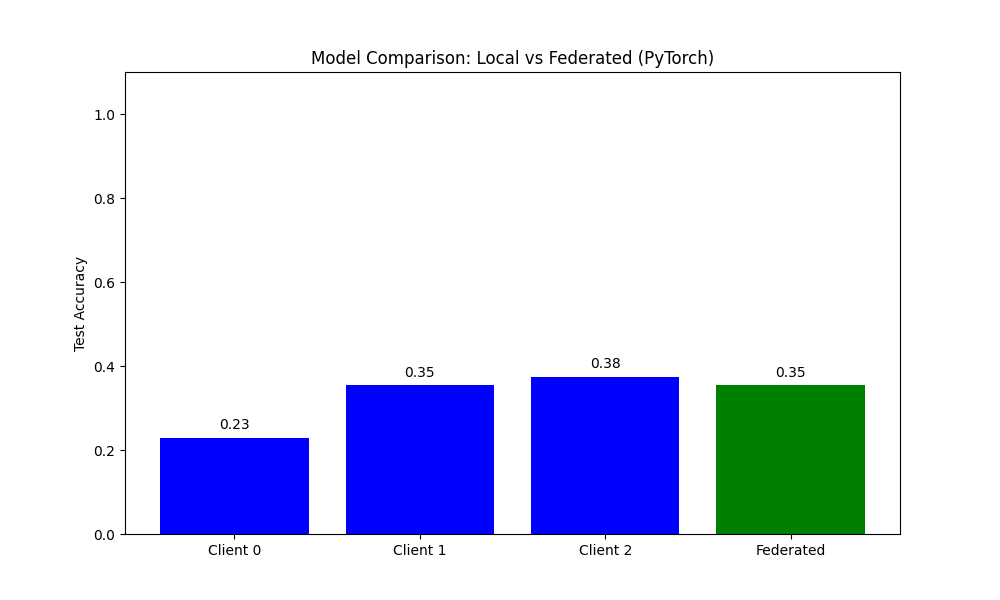
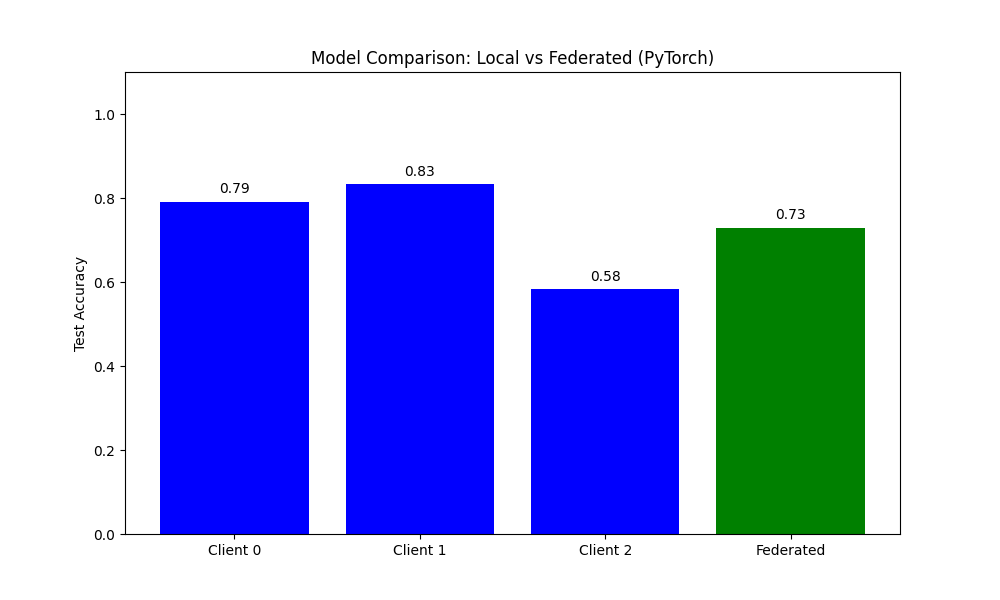
Update docs and add FL experiment results (20 epochs)

diff --git a/federated_learning.md b/federated_learning.md
@@ -40,3 +40,15 @@ python run_fl_experiment_pytorch.py --epochs 10 --batch_size 8
 The script outputs:
 -   **fl_pytorch_logs/fl_comparison_pytorch.png**: A bar chart comparing the test accuracy of each local model vs. the federated model.
 -   **Console Output**: Loss and Accuracy metrics for each client and the federated model.
+
+### Feasibility Experiment Results (20 Epochs)
+We ran a simulation with 3 clients, 20 epochs per client, and batch size 8.
+
+| Model | Test Accuracy | Note |
+|-------|---------------|------|
+| Client 0 | 79.17% | Trained on ~63 images |
+| Client 1 | 83.33% | Trained on ~115 images |
+| Client 2 | 58.33% | Trained on ~85 images |
+| **Federated** | **72.92%** | **Aggregated Global Model** |
+
+The Federated model achieves competitive performance (73%) compared to local models, significantly outperforming the weakest client (Client 2), demonstrating the benefit of aggregation.
